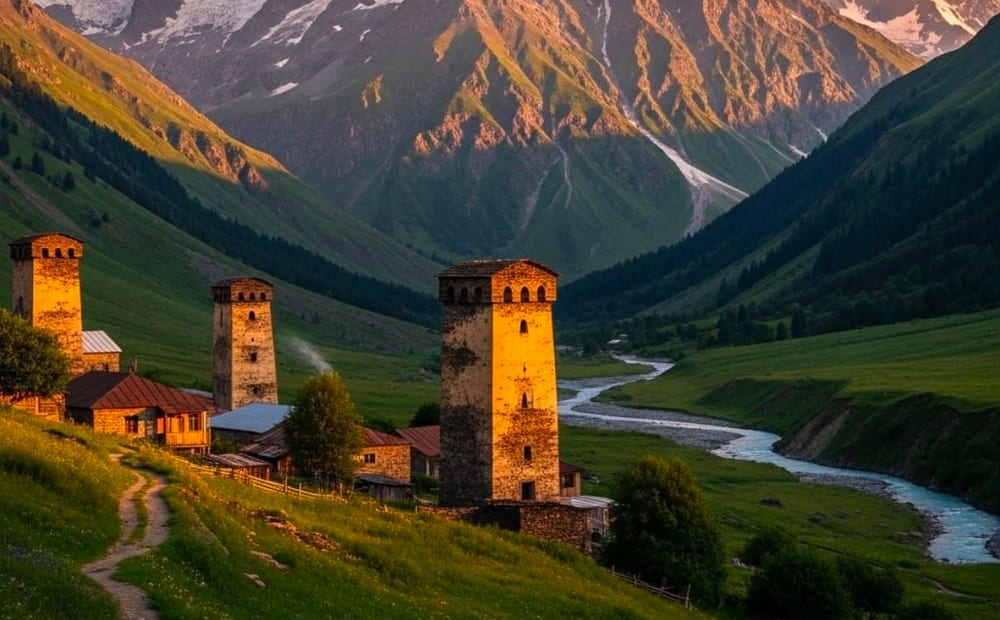
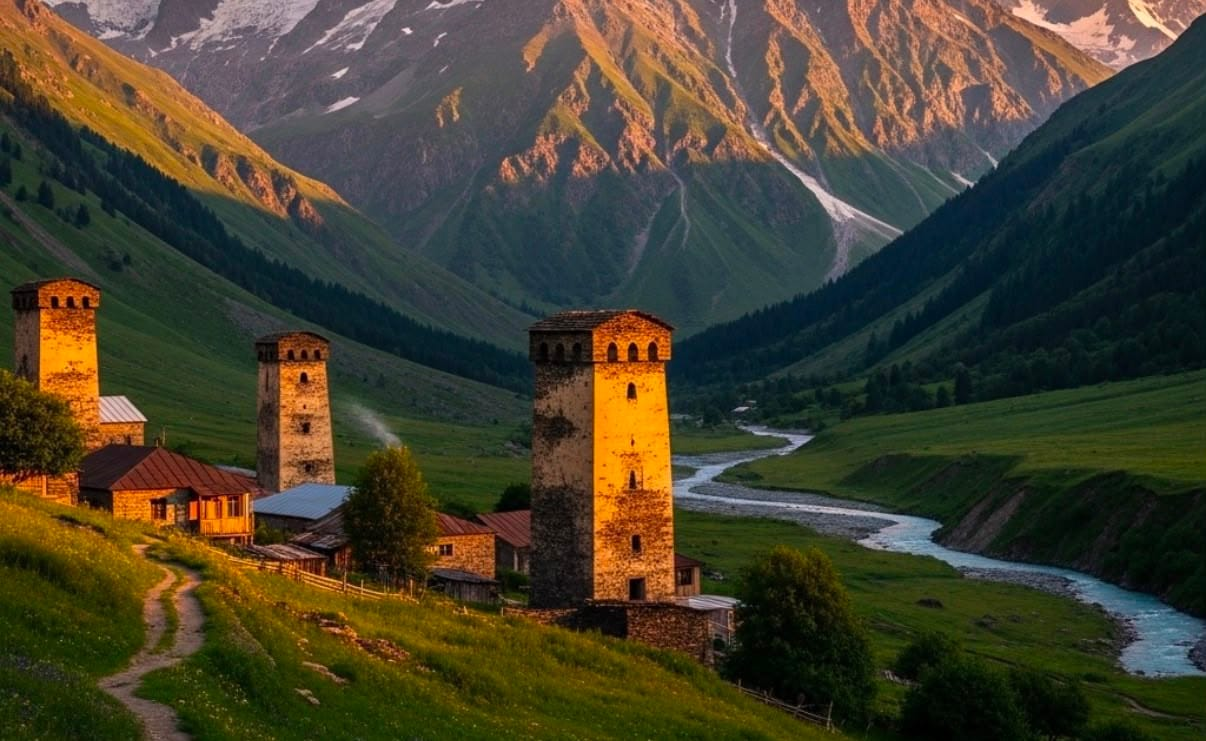
Wider canvas, honest pixels
The 1152px container used barely 60% of a modern display; everything now
sits in a 1400px canvas with progressive gutters, and the admin console,
cookie notice and loading state follow so no surface is left narrow. The
hero grows into the space (7xl headline on large screens, deeper overlap
into the booking widget) and the section rhythm opens up.

Images were the second complaint and had a real cause: 900px crops being
stretched into slots wider than themselves. Every crop is regenerated at
the largest size the source photographs actually contain (the WhatsApp
originals are 1206px wide — sharp's withoutEnlargement now refuses to
invent pixels beyond that). Card imagery is taller (h-32 strips, h-52 tour
covers) with a slow zoom on hover, clipped by the card radius.

Known ceiling, documented rather than hidden: on very large screens the
hero still upscales in-browser because 1206px is all the source files
carry. Original-quality exports of the same photos would fix that with a
file drop and no code change. 68 tests.

diff --git a/src/app/[locale]/page.tsx b/src/app/[locale]/page.tsx
@@ -102,7 +102,7 @@ export default async function Home({ params }: { params: Promise<{ locale: strin
   ].filter(([v]) => (v as number) > 0) as [number, string][];
 
   return (
-    <div className="space-y-20 sm:space-y-24">
+    <div className="space-y-20 sm:space-y-28">
       {/* ------------------------------------------------ hero ------------ */}
       <section className="relative left-1/2 -mt-10 w-screen -translate-x-1/2 overflow-hidden bg-pine-800 text-white sm:-mt-12">
         <div className="absolute inset-0" aria-hidden>
@@ -115,10 +115,10 @@ export default async function Home({ params }: { params: Promise<{ locale: strin
           <div className="pointer-events-none absolute inset-x-0 bottom-0 h-40 bg-gradient-to-t from-pine-900/80 to-transparent" />
         </div>
 
-        <div className="relative mx-auto max-w-6xl px-4 pb-28 pt-16 sm:pb-36 sm:pt-24">
+        <div className="relative mx-auto max-w-[1400px] px-4 pb-32 pt-16 sm:px-6 sm:pb-44 sm:pt-28 lg:px-10">
           <div className="flex flex-wrap items-start justify-between gap-8">
             <div className="max-w-2xl">
-              <h1 className="font-display text-[2.6rem] leading-[1.06] sm:text-6xl">
+              <h1 className="font-display text-[2.6rem] leading-[1.06] sm:text-6xl xl:text-7xl">
                 {t("home.heroTitle")}
               </h1>
               <p className="mt-5 max-w-xl text-lg leading-relaxed text-pine-100">
@@ -143,7 +143,7 @@ export default async function Home({ params }: { params: Promise<{ locale: strin
             {tours.length > 0 && (
               <Link
                 href={`/${locale}/tours`}
-                className="group hidden w-72 shrink-0 rounded-2xl bg-pine-900/70 p-5 backdrop-blur-md transition-colors hover:bg-pine-900/85 lg:block"
+                className="group hidden w-80 shrink-0 rounded-2xl bg-pine-900/70 p-5 backdrop-blur-md transition-colors hover:bg-pine-900/85 lg:block"
               >
                 <p className="eyebrow text-brand-300">{t("home.promoEyebrow")}</p>
                 <p className="font-display mt-2 text-xl">{t("home.promoTitle")}</p>
@@ -159,7 +159,7 @@ export default async function Home({ params }: { params: Promise<{ locale: strin
       </section>
 
       {/* -------------------------------------------- booking widget ------ */}
-      <div id="book" className="relative z-10 -mt-32 scroll-mt-24 sm:-mt-40">
+      <div id="book" className="relative z-10 -mt-36 scroll-mt-24 sm:-mt-48">
         <Card className="p-6 shadow-[0_24px_60px_-28px_rgba(12,31,24,.5)] sm:p-8">
           <SearchTabs locale={locale} locations={locations} />
           <ul className="mt-6 flex flex-wrap gap-x-6 gap-y-2 border-t border-ink-100 pt-4">
@@ -202,12 +202,15 @@ export default async function Home({ params }: { params: Promise<{ locale: strin
                     <p className="mt-1.5 text-sm leading-relaxed text-ink-600">{t(svc.b)}</p>
                   </div>
                   <div className="mt-auto px-5 pb-5">
-                    {photo ? (
-                      // eslint-disable-next-line @next/next/no-img-element
-                      <img src={photo} alt="" loading="lazy" className="h-24 w-full rounded-xl object-cover" />
-                    ) : (
-                      <PlaceImage imageKey={null} alt="" seedText={svc.seed} className="h-24 w-full" rounded="rounded-xl" />
-                    )}
+                    <div className="overflow-hidden rounded-xl">
+                      {photo ? (
+                        // eslint-disable-next-line @next/next/no-img-element
+                        <img src={photo} alt="" loading="lazy"
+                             className="h-32 w-full object-cover transition-transform duration-500 group-hover:scale-105" />
+                      ) : (
+                        <PlaceImage imageKey={null} alt="" seedText={svc.seed} className="h-32 w-full" />
+                      )}
+                    </div>
                   </div>
                 </Link>
               </li>
@@ -218,7 +221,7 @@ export default async function Home({ params }: { params: Promise<{ locale: strin
 
       {/* ------------------------------------------------ trust band ------ */}
       <section className="relative left-1/2 w-screen -translate-x-1/2 bg-ink-50">
-        <ul className="mx-auto grid max-w-6xl gap-x-6 gap-y-8 px-4 py-12 grid-cols-2 sm:grid-cols-3 lg:grid-cols-5">
+        <ul className="mx-auto grid max-w-[1400px] gap-x-6 gap-y-8 px-4 py-14 grid-cols-2 sm:grid-cols-3 sm:px-6 lg:grid-cols-5 lg:px-10">
           {TRUST.map(([key, icon]) => (
             <li key={key} className="flex flex-col items-center gap-3 text-center">
               <svg viewBox="0 0 24 24" className="size-8 text-brand-700" fill="none" stroke="currentColor"
@@ -283,13 +286,13 @@ export default async function Home({ params }: { params: Promise<{ locale: strin
                   href={`/${locale}/tours/${tour.slug}`}
                   className="group flex h-full flex-col overflow-hidden rounded-2xl border border-ink-200 bg-white transition-shadow hover:border-brand-300 hover:shadow-lg hover:shadow-brand-900/5"
                 >
-                  <div className="relative">
+                  <div className="relative overflow-hidden">
                     <PlaceImage
                       imageKey={tour.heroImageKey}
                       photoSrc={sitePhoto(`tours/${tour.slug}.jpg`)}
                       alt={tour.heroImageAlt ?? tour.title}
                       seedText={tour.slug}
-                      className="h-40 w-full"
+                      className="h-52 w-full transition-transform duration-500 group-hover:scale-105"
                     />
                     <span className="absolute left-4 top-4">
                       <Badge tone="neutral">
@@ -325,15 +328,17 @@ export default async function Home({ params }: { params: Promise<{ locale: strin
               <li key={r.slug}>
                 <Link
                   href={`/${locale}/transfers/${r.slug}`}
-                  className="block h-full overflow-hidden rounded-2xl border border-ink-200 bg-white transition-shadow hover:border-brand-300 hover:shadow-lg hover:shadow-brand-900/5"
+                  className="group block h-full overflow-hidden rounded-2xl border border-ink-200 bg-white transition-shadow hover:border-brand-300 hover:shadow-lg hover:shadow-brand-900/5"
                 >
+                  <span className="block overflow-hidden">
                   <PlaceImage
                     imageKey={r.imageKey}
                     photoSrc={sitePhoto(`routes/${r.slug}.jpg`)}
                     alt={r.imageAlt ?? `${r.originName} to ${r.destinationName}`}
                     seedText={r.slug}
-                    className="h-24 w-full"
+                    className="h-32 w-full transition-transform duration-500 group-hover:scale-105"
                   />
+                  </span>
                   <span className="block px-4 py-3">
                   <span className="font-semibold text-ink-800">{r.originName}</span>
                   <span className="mx-2 text-ink-400" aria-hidden>→</span>

diff --git a/src/app/[locale]/layout.tsx b/src/app/[locale]/layout.tsx
@@ -52,7 +52,7 @@ export default async function LocaleLayout({
       </a>
 
       <header className="sticky top-0 z-30 border-b border-ink-100 bg-white/95 backdrop-blur-md">
-        <div className="mx-auto flex max-w-6xl items-center gap-3 px-4 py-3">
+        <div className="mx-auto flex max-w-[1400px] items-center gap-3 px-4 py-3 sm:px-6 lg:px-10">
           <Link href={`/${locale}`} aria-label={t("brand.name")} className="shrink-0">
             <Logo />
           </Link>
@@ -120,12 +120,12 @@ export default async function LocaleLayout({
         </nav>
       </header>
 
-      <main id="main" className="mx-auto w-full max-w-6xl flex-1 px-4 py-10 sm:py-12">{children}</main>
+      <main id="main" className="mx-auto w-full max-w-[1400px] flex-1 px-4 py-10 sm:px-6 sm:py-12 lg:px-10">{children}</main>
 
       <CookieNotice locale={locale as Locale} returnTo={`/${locale}`} />
 
       <footer className="mt-8 bg-pine-900 text-pine-100">
-        <div className="mx-auto grid max-w-6xl gap-10 px-4 py-14 sm:grid-cols-2 lg:grid-cols-4">
+        <div className="mx-auto grid max-w-[1400px] gap-10 px-4 py-14 sm:grid-cols-2 sm:px-6 lg:grid-cols-4 lg:px-10">
           <div>
             <Logo dark />
             <p className="mt-4 text-sm leading-relaxed text-pine-200">{t("brand.tagline")}</p>
@@ -176,7 +176,7 @@ export default async function LocaleLayout({
         </div>
 
         <div className="border-t border-pine-700/60">
-          <div className="mx-auto flex max-w-6xl flex-wrap items-center justify-between gap-3 px-4 py-5 text-xs text-pine-300">
+          <div className="mx-auto flex max-w-[1400px] flex-wrap items-center justify-between gap-3 px-4 py-5 text-xs text-pine-300 sm:px-6 lg:px-10">
             <p>© {new Date().getFullYear()} {t("brand.name")}</p>
             <ul className="flex gap-4">
               {LOCALES.map((l) => (

diff --git a/src/app/admin/layout.tsx b/src/app/admin/layout.tsx
@@ -34,7 +34,7 @@ export default async function AdminLayout({ children }: { children: React.ReactN
   return (
     <div className="flex min-h-dvh flex-col bg-ink-50">
       <header className="border-b border-ink-200 bg-white">
-        <div className="mx-auto flex max-w-6xl flex-wrap items-center justify-between gap-3 px-4 py-3">
+        <div className="mx-auto flex max-w-[1400px] flex-wrap items-center justify-between gap-3 px-4 py-3">
           <Link href="/admin" className="flex items-center gap-2.5">
             <span aria-hidden className="grid size-8 place-items-center rounded-full bg-brand-600 text-white">
               <svg viewBox="0 0 24 24" className="size-4" fill="none" stroke="currentColor" aria-hidden>
@@ -52,7 +52,7 @@ export default async function AdminLayout({ children }: { children: React.ReactN
             </form>
           </div>
         </div>
-        <nav aria-label="Admin" className="mx-auto max-w-6xl overflow-x-auto px-2 pb-2">
+        <nav aria-label="Admin" className="mx-auto max-w-[1400px] overflow-x-auto px-2 pb-2">
           <ul className="flex gap-1 text-sm">
             {nav.map((item) => (
               <li key={item.href}>
@@ -64,7 +64,7 @@ export default async function AdminLayout({ children }: { children: React.ReactN
           </ul>
         </nav>
       </header>
-      <main className="mx-auto w-full max-w-6xl flex-1 px-4 py-6">{children}</main>
+      <main className="mx-auto w-full max-w-[1400px] flex-1 px-4 py-6">{children}</main>
     </div>
   );
 }

diff --git a/src/components/cookie-notice.tsx b/src/components/cookie-notice.tsx
@@ -24,7 +24,7 @@ export async function CookieNotice({ locale, returnTo }: { locale: Locale; retur
       aria-label="Cookie notice"
       className="fixed inset-x-0 bottom-0 z-40 border-t border-ink-200 bg-white/95 backdrop-blur-md"
     >
-      <div className="mx-auto flex max-w-6xl flex-col gap-3 px-4 py-4 sm:flex-row sm:items-center sm:justify-between">
+      <div className="mx-auto flex max-w-[1400px] flex-col gap-3 px-4 py-4 sm:flex-row sm:items-center sm:justify-between">
         <p className="text-sm leading-relaxed text-ink-700">
           {t("cookie.body")}{" "}
           <Link href={`/${locale}/legal/privacy`} className="text-brand-700 underline underline-offset-2">

diff --git a/src/app/loading.tsx b/src/app/loading.tsx
@@ -1,6 +1,6 @@
 export default function Loading() {
   return (
-    <div className="mx-auto max-w-6xl px-4 py-12" role="status" aria-live="polite">
+    <div className="mx-auto max-w-[1400px] px-4 py-12" role="status" aria-live="polite">
       <span className="sr-only">Loading</span>
       <div className="space-y-3">
         <div className="h-6 w-48 animate-pulse rounded bg-ink-200" />
